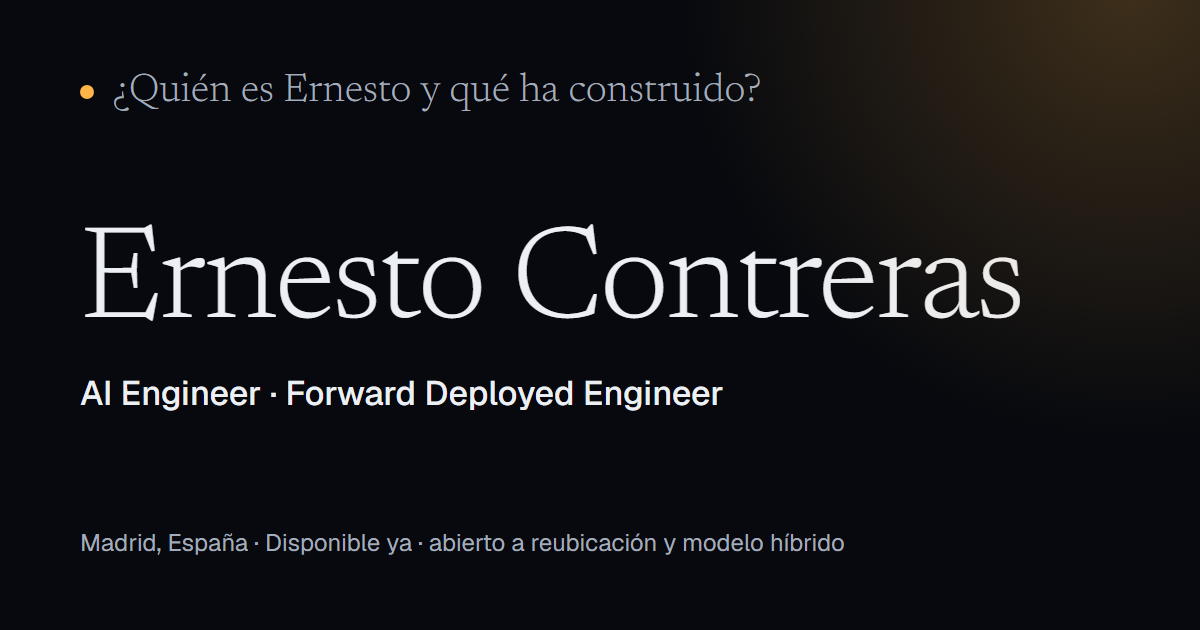
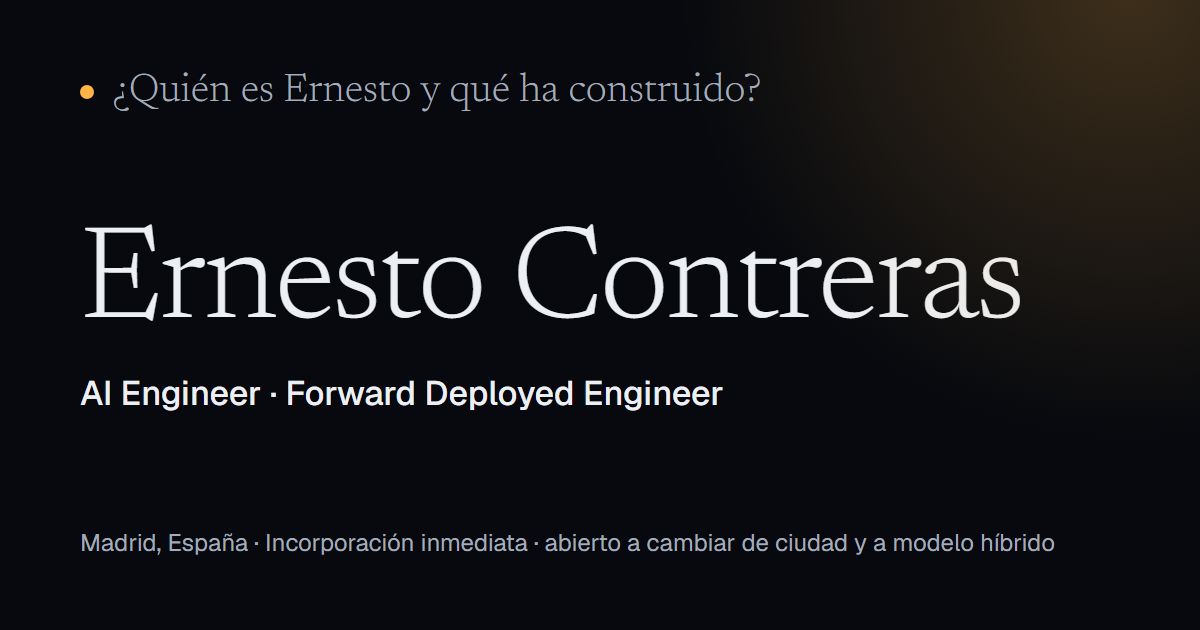
fix(copy): apply bilingual review and tighten claims
Natural Spanish phrasing, citations described as prompt-enforced, first person in the rerank rule, Spanish decimal comma for scores, nav fits at 768px, README.

Changed region(s): [[0.2158, 0.8444, 0.8942, 0.8746]]

diff --git a/src/sections/Story.tsx b/src/sections/Story.tsx
@@ -5,7 +5,7 @@ import ScoreBar from '../components/ScoreBar';
 import { useShortcutLabel, openAgent, AGENT_READY } from '../components/Nav';
 import { fetchedAt } from '../data/repos';
 import { useFlip } from '../hooks/useFlip';
-import { useMessages, useT } from '../i18n';
+import { useLocale, useMessages, useT } from '../i18n';
 import { projects, repoIndex, shortDate, type Project } from '../lib/projects';
 import { rankDeltas, rerank } from '../lib/rerank';
 import { PINNED_QUERY, isPinned, resolveAnchor, scrollToElement } from '../lib/scroll';
@@ -54,6 +54,8 @@ export default function Story() {
   const t = useT();
   const shortcut = useShortcutLabel();
   const terms = useMessages().retrieval.terms;
+  const locale = useLocale();
+  const fmt = (n: number) => (locale === 'es' ? n.toFixed(3).replace('.', ',') : n.toFixed(3));
   const [term, setTerm] = useState<string | null>(null);
   // Server HTML holds the finished state, so no-JS readers and crawlers get scores and the final order.
   const [phase, setPhase] = useState<Phase>('rerank');
@@ -167,7 +169,7 @@ export default function Story() {
             {AGENT_READY && (
               <button type="button" onClick={openAgent} className="no-js-hide inline-flex h-12 items-center gap-3 rounded-full bg-surface-2 pl-5 pr-2 font-medium transition-colors duration-200 hover:bg-line">
                 {t('hero.ctaAgent')}
-                <kbd className="kbd-hint rounded-full bg-bg-0 px-2.5 py-1 font-mono text-[0.8125rem] text-muted">{shortcut}</kbd>
+                <kbd className="kbd-hint whitespace-nowrap rounded-full bg-bg-0 px-2.5 py-1 font-mono text-[0.8125rem] text-muted">{shortcut}</kbd>
               </button>
             )}
           </div>
@@ -223,7 +225,7 @@ export default function Story() {
                       <div className="flex items-baseline justify-between gap-2">
                         <span className="font-mono text-[0.8125rem] tabular-nums">
                           <span className="sr-only">{t('retrieval.score')} </span>
-                          {score.toFixed(3)}
+                          {fmt(score)}
                         </span>
                         <span className={`transition-opacity duration-300 ${phase === 'rerank' ? 'opacity-100' : 'opacity-0'}`}>
                           <Delta n={deltas[p.slug]} />

diff --git a/src/components/Nav.tsx b/src/components/Nav.tsx
@@ -47,12 +47,12 @@ export default function Nav() {
   return (
     <header className="fixed inset-x-3 top-3 z-40 mx-auto max-w-5xl">
       <nav aria-label={t('a11y.primaryNav')} className="glass flex h-14 items-center justify-between rounded-full pl-5 pr-2">
-        <a href="#input" aria-label={t('nav.home')} className="flex items-center gap-2.5 text-sm font-medium tracking-tight">
+        <a href="#input" aria-label={t('nav.home')} className="flex items-center gap-2.5 whitespace-nowrap text-sm font-medium tracking-tight">
           <span className="size-1.5 rounded-full bg-accent" aria-hidden="true" />
           Ernesto Contreras
         </a>
         <div className="flex items-center gap-1">
-          <div className="hidden items-center md:flex">
+          <div className="hidden items-center lg:flex">
             <a className={link} href="#rerank">{t('nav.work')}</a>
             <a className={link} href="#output">{t('nav.about')}</a>
             <a className={link} href="#contact">{t('nav.contact')}</a>
@@ -65,9 +65,9 @@ export default function Nav() {
             className="no-js-hide group flex h-10 items-center gap-2 rounded-full border border-line-strong/60 pl-3 pr-2 text-sm transition-colors duration-200 hover:border-accent/60"
           >
             <Search className="size-4 text-accent" aria-hidden="true" strokeWidth={1.75} />
-            <span className="hidden sm:inline">{t('nav.agent')}</span>
-            <span className="sr-only sm:hidden">{t('nav.agent')}</span>
-            <kbd className="kbd-hint hidden rounded-md bg-surface-2 px-1.5 py-0.5 font-mono text-[0.8125rem] text-muted sm:inline">{shortcut}</kbd>
+            <span className="hidden lg:inline">{t('nav.agent')}</span>
+            <span className="sr-only lg:hidden">{t('nav.agent')}</span>
+            <kbd className="kbd-hint hidden whitespace-nowrap rounded-md bg-surface-2 px-1.5 py-0.5 font-mono text-[0.8125rem] text-muted lg:inline">{shortcut}</kbd>
           </button>
           )}
         </div>

diff --git a/src/styles/global.css b/src/styles/global.css
@@ -267,11 +267,12 @@ html[data-pinned] .story-cap,
 html[data-pinned] .story-list-wrap { grid-row: 1; }
 html[data-pinned] .story-cap {
   grid-column: 1;
-  transition: opacity var(--dur-4) var(--ease-out), transform var(--dur-4) var(--ease-out), visibility var(--dur-4);
+  transition: opacity var(--dur-4) var(--ease-out), transform var(--dur-4) var(--ease-out);
 }
+/* Hidden captions stay focusable and readable by screen readers; focusing one scrolls to its phase (Story.tsx). */
 html[data-pinned] .story-cap:not(.is-active) {
   opacity: 0;
-  visibility: hidden;
+  pointer-events: none;
   transform: translateY(18px);
 }
 /* Before hydration the server state is "rerank"; on a pinned page the hero must still paint first. */

diff --git a/tests/e2e/nav.spec.ts b/tests/e2e/nav.spec.ts
@@ -40,3 +40,13 @@ test('without JavaScript the hero and projects are readable and JS-only buttons 
   await expect(page.getByRole('button', { name: /Ask the agent/ })).toHaveCount(0);
   await context.close();
 });
+
+test('keyboard reaches the re-score chips in the pinned story and focus reveals their phase', async ({ page }, info) => {
+  test.skip(info.project.name === 'mobile', 'pinned mode is desktop only');
+  await page.goto('/');
+  await page.waitForLoadState('networkidle');
+  const chip = page.getByRole('button', { name: 'All terms' });
+  await chip.focus();
+  await expect(chip).toBeFocused();
+  await expect(page.locator('.story-cap-retrieval')).toHaveClass(/is-active/, { timeout: 3000 });
+});

diff --git a/README.md b/README.md
@@ -1,0 +1,146 @@
+# ernesto2604.github.io
+
+Personal portfolio of Ernesto Contreras, AI Engineer and Forward Deployed Engineer.
+
+The page is built as the AI pipeline it describes. Scrolling moves a question through five stages: **Input**, **Retrieval**, **Rerank**, **Generate** and **Output**. A scripted agent (Ctrl/Cmd + K) answers questions about the projects. It shows the lookups it really makes in local data and then streams a pre-written answer. It runs entirely in the browser: no LLM, no backend, no tracking.
+
+- English at `/`, Spanish at `/es/`. Both pages are prerendered to static HTML.
+- Hosted on GitHub Pages and built by GitHub Actions.
+- Stack: Vite 8, React 19, TypeScript 6, Tailwind CSS 4, Lenis, Lucide, Vitest, Playwright with axe-core, and Lighthouse.
+
+## Run locally
+
+Requirements: Node.js 22 or later, and npm.
+
+```bash
+npm install
+npx playwright install chromium   # only needed for e2e tests and OG image generation
+npm run dev                       # http://localhost:5173 (fetches repo data first)
+```
+
+Other scripts:
+
+| Script | What it does |
+| --- | --- |
+| `npm run build` | Fetches repo data, type-checks, builds the client and the SSR bundle, then prerenders `dist/` (both locales, `404.html`, `sitemap.xml`). |
+| `npm run preview` | Serves `dist/` at http://localhost:4173. |
+| `npm test` | Runs the unit tests (Vitest): search scorer, agent matcher, i18n key parity, contrast tokens, SEO head, diagram labels. |
+| `npm run test:e2e` | Runs the Playwright tests against `npm run preview`: navigation, no-JS, agent keyboard flow and axe accessibility. Build first. |
+| `npm run data:refresh` | Refreshes the committed fallback `src/data/repos.fallback.json` from the GitHub API. |
+| `npm run og` | Regenerates `public/og-*.png` and the PNG icons with Playwright's Chromium. |
+| `node scripts/screenshots.mjs <dir> <w>x<h> <path> <scrollY or #hash>...` | Takes screenshots of the preview build (dev aid). |
+
+## Project layout
+
+```
+src/
+  content/           all copy and editable data
+    en.json, es.json   UI strings and case-study text (same keys, enforced by a test)
+    projects.json      locale-independent project facts (repo, rank, stack, search tags, links)
+    profile.json       name, contact, CV paths, photo
+    agent/kb.json      the agent's bilingual knowledge base
+  sections/          Story (stages 1-3, pinned), Generate (case studies), Output (about and contact)
+  components/        Nav, PipelineIndicator, Diagram (+ diagrams.ts layouts), Footer, ...
+  agent/             match.ts (intent matcher), tools.ts (tool calls), AgentPanel, AgentHost
+  lib/search.ts      BM25 scorer with typo tolerance, shared by Retrieval and the agent
+  i18n/              tiny typed t() and provider (no i18n library)
+scripts/             fetch-repos, prerender, og, screenshots
+tests/unit, tests/e2e
+```
+
+## Edit content
+
+All visible text lives in `src/content/en.json` and `src/content/es.json`. Components never contain copy. When you add a key to one file, add it to the other: `npm test` fails if the key sets, the `{placeholders}` or any empty values differ.
+
+- **Hero, about, skills, experience:** `hero.*` and `output.*`.
+- **Case studies:** `cases.<slug>.*` holds the problem, approach, decisions, limitations, next steps, diagram labels and the text alternative of each diagram.
+- **Contact:** edit `src/content/profile.json`.
+  - The phone number is stored as parts and joined in the browser, so it is not in the static HTML.
+  - **CV:** put the PDFs in `public/cv/` and set `"cv": { "en": "/cv/ernesto-contreras-cv-en.pdf", "es": "/cv/..." }`. The download link appears only for locales with a path.
+  - **Photo:** the `photo` field is reserved. The site shows no photo until one is added and wired in.
+
+## Add a project
+
+1. Add an entry to `src/content/projects.json` with these fields:
+   - `slug`, and `repo` (the GitHub repository name).
+   - `rank`: a number makes it featured, `null` puts it under "Also built".
+   - `stack` and `tags`. The tags are the search terms the Retrieval stage scores against, in English and in Spanish without accents.
+   - `links.video`: optional.
+2. Add `projects.<slug>.{name, summary, fact}` to both locale files.
+3. For a featured project, also do the following:
+   - Add `cases.<slug>` to both locale files. Copy the shape of an existing case.
+   - Add a layout to `src/components/diagrams.ts`. The viewBox is 720 × 420; each node has an `s` reveal step, and each edge draws after its source node.
+   - Run `npm test`: it checks that every diagram label fits in two lines in both languages.
+4. Run `npm run data:refresh` so the fallback snapshot includes the new repository.
+
+## Edit the agent's knowledge base
+
+`src/content/agent/kb.json` holds one entry per intent:
+
+```json
+{
+  "id": "ring",
+  "project": "ring-telemetryops",
+  "triggers": ["ring", "doorbell", "timbre", "telemetría"],
+  "tools": ["search_projects", "read_repo", "show_architecture"],
+  "answer": { "en": "...", "es": "..." },
+  "actions": [{ "type": "scrollTo", "target": "#ring-telemetryops" }]
+}
+```
+
+- **`triggers`:** words or short phrases in either language. Matching ignores case and accents and tolerates typos (prefix match, or an edit distance of 1 to 2 on longer words).
+- **`weight` (optional):** lowers a generic intent so specific intents win when both match. `projects` uses 0.6.
+- **`searchQuery` (optional):** what `search_projects` looks up when the user's words are too generic.
+- **`tools`:** which simulated tool calls to show:
+  - `search_projects`
+  - `read_repo` and `show_architecture`: these need `project`.
+  - `get_profile`
+  - `get_contact`
+- **`actions`:** buttons shown under the answer:
+  - `scrollTo` and `highlight`, which take a CSS id.
+  - `switchLocale`, which takes `en` or `es`.
+  - Button labels live in `agent.targets.*` in the locale files.
+- **`suggestions` and `fallback`:** what the agent offers when nothing scores above `MIN_SCORE` in `src/agent/match.ts`.
+
+After you edit the knowledge base, add a test query to `tests/unit/agent.test.ts` and run `npm test`.
+
+## Change language strings
+
+Edit both `src/content/en.json` and `src/content/es.json`. The client downloads only the active locale; the server prerender uses both. SEO tags are built from `meta.*` in `src/seo/head.ts`.
+
+The language toggle is a real link to the other page and keeps the current `#hash`. It stores the choice in `localStorage`. A small inline script on `/` sends a returning visitor to `/es/` only if they chose Spanish before; nothing is detected from IP or browser language.
+
+## Deploy to GitHub Pages
+
+The workflow is in `.github/workflows/deploy.yml`. On every push to `main` it runs the unit tests and the build, then deploys `dist/`.
+
+1. Create a public repository named `ernesto2604.github.io` under the `ernesto2604` account, then push this project to its `main` branch.
+2. In the repository, open **Settings → Pages → Build and deployment** and set **Source** to **GitHub Actions**.
+3. The site will be served at https://ernesto2604.github.io/ with base path `/`.
+
+The build asks the GitHub API for repository metadata using the workflow's `GITHUB_TOKEN`. If that fails, it falls back to the committed snapshot, so the build never breaks on rate limits.
+
+Unknown paths are served `dist/404.html` by GitHub Pages. That file is a static, bilingual, `noindex` page.
+
+## Design notes
+
+- **Pinned story.** Stages 1 to 3 form a sticky scene driven by native scroll on screens of at least 1024 × 740 px.
+  - Without motion preference, or on smaller screens, the same DOM stacks as normal sections.
+  - `html[data-pinned]` is set before first paint in `public/boot.js`.
+- **Glass.** Only the nav, the pipeline indicator and the agent dialog use glass. They become solid with `prefers-reduced-transparency` and on low-memory devices.
+- **Fonts.** Newsreader, Geist and Geist Mono (OFL-1.1), latin subset, self-hosted in `public/fonts/` with their licenses.
+- **Icons.** Lucide (ISC).
+
+---
+
+## En español
+
+Portfolio personal de Ernesto Contreras. La página recorre un pipeline de IA (entrada, recuperación, reordenación, generación y salida). Incluye un agente con guion (Ctrl/Cmd + K) que funciona entero en el navegador: no usa LLM, no tiene backend y no lleva rastreo.
+
+- **Desarrollo local:** `npm install` y después `npm run dev`. Los tests se lanzan con `npm test` y, tras `npm run build`, con `npm run test:e2e`.
+- **Textos:** están en `src/content/en.json` y `src/content/es.json`, con las mismas claves (un test lo comprueba).
+- **Proyectos:** se definen en `src/content/projects.json` y los casos de estudio en `cases.<slug>`.
+- **Agente:** su base de conocimiento está en `src/content/agent/kb.json`.
+- **Despliegue:**
+  1. Crea el repositorio `ernesto2604.github.io` y sube el código a `main`.
+  2. En **Settings → Pages**, elige **GitHub Actions** como origen.
